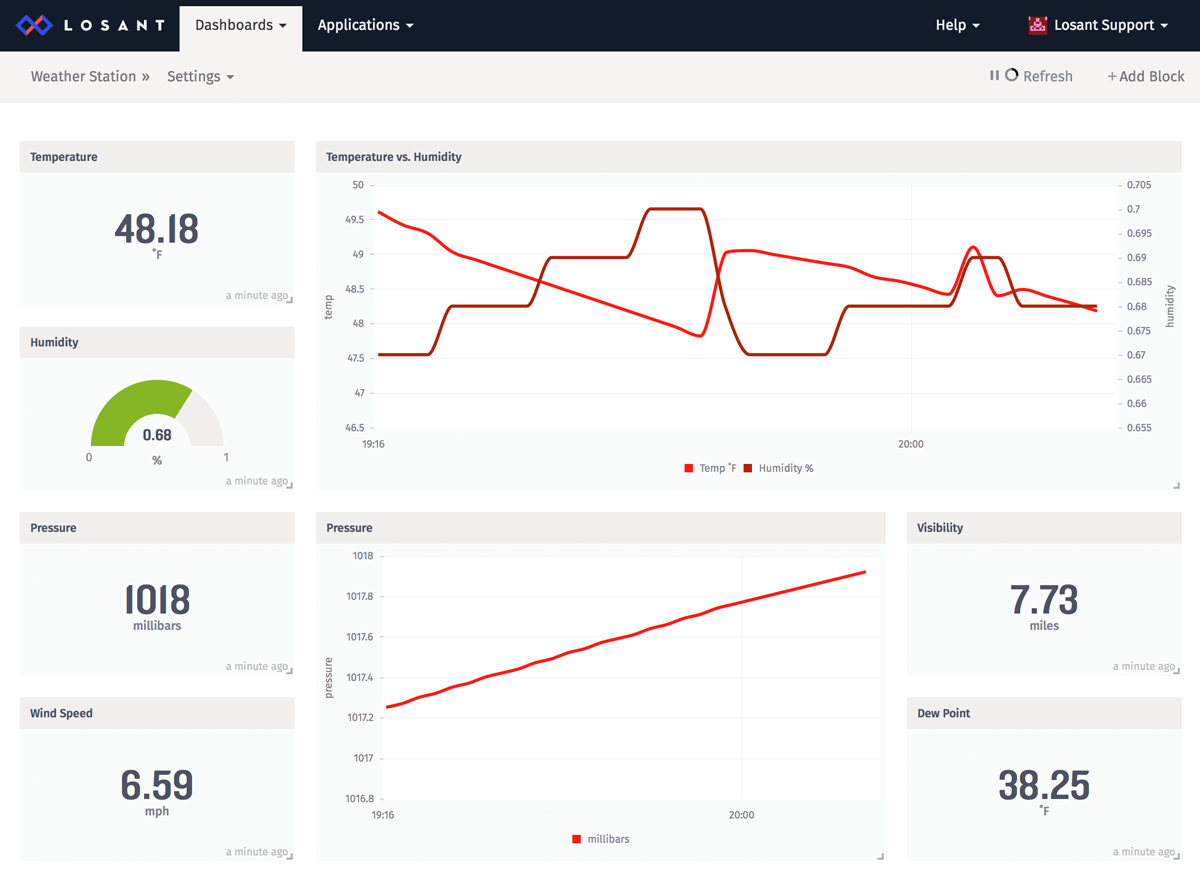
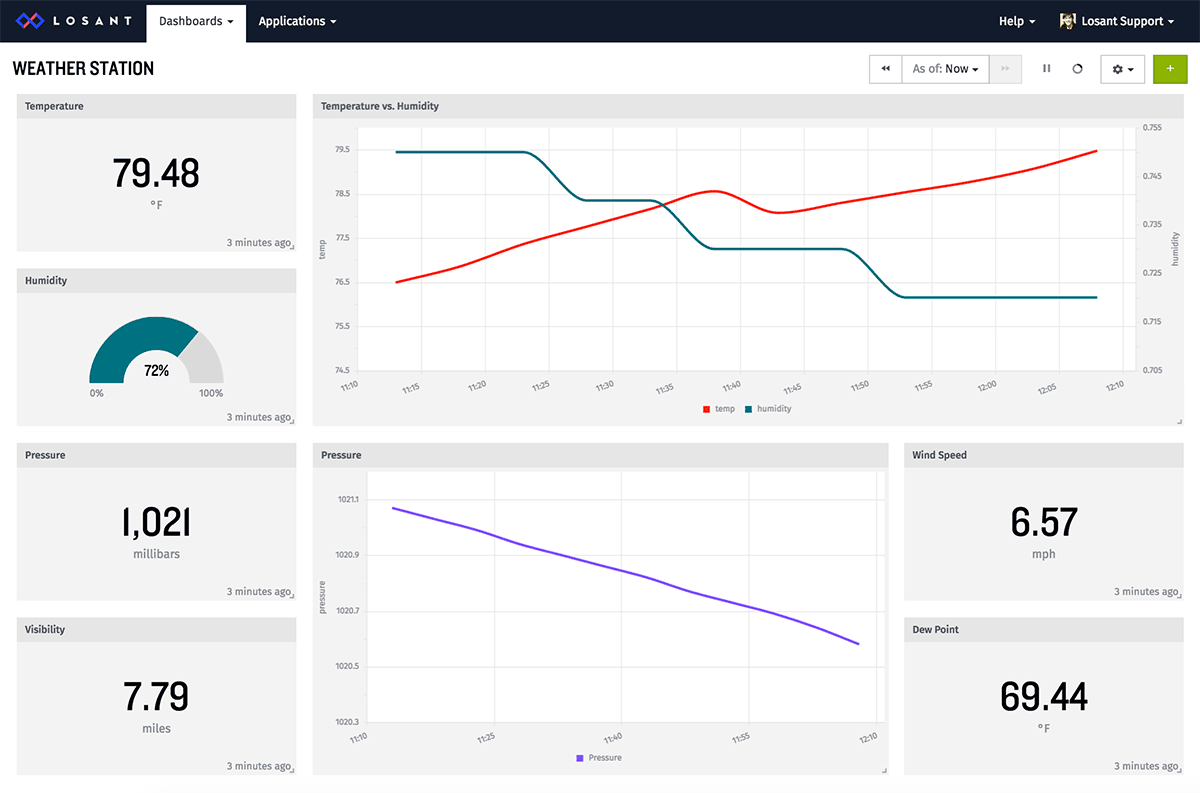
dashboard time jumper

diff --git a/docs/dashboards/overview.md b/docs/dashboards/overview.md
@@ -24,6 +24,23 @@ Dashboards by default will automatically refresh the data every 60 seconds. You 
 
 ![Refresh Button](/images/dashboards/overview-refresh-button.png "Refresh Button")
 
+## Viewing Past Dashboard States
+
+By default, dashboards show values as of the last time data was fetched from Losant ("Now"). To view the state of your dashboard blocks at a given point in time, open the Time Jumper dropdown and select the "Jump to a specific date/time" option. After choosing a past time, the dashboard will refresh and display each dashboard block as it appeared at that moment.
+
+![Dashboard Time Jumper](/images/dashboards/dashboard-time-jumper.png "Dashboard Time Jumper")
+
+It is also possible to jump backward and forward in time simply by clicking the arrows on either side of the time jumper dropdown. This allows for quick perusing of dashboard states as they progressed over a period of time. By default, the arrows jump 60 minutes forward and backward, but this value can be changed in the Time Jumper dropdown. The arrow jump amount is stored locally on your browser and will be maintained across different dashboards.
+
+![Dashboard Time Jumper Arrows](/images/dashboards/dashboard-time-jumper-arrows.png "Dashboard Time Jumper Arrows")
+
+A few things to note when viewing past dashboard states:
+
+*  **The following dashboard blocks do not update** when viewing a past dashboard state (meaning, they continue to reflect the "as of now" state of the block): Input Controls, Event List, Device List, Workflow List, Application List, Dashboard List, External Website
+* When viewing a past state, the dashboard will cease to refresh data on a regular basis.
+* **Each individual block will honor its specific duration settings** regardless of the selected date. For example, when viewing 10:00am on June 1, 2016, a Time Series Graph configured to show the last hour of data will display data from 9:00am to 10:00am of that same date. Meanwhile, a Gauge Block set to display a mean aggregation of data collected over the past four hours will show the aggregated value of its attribute as collected from 6:00am to 10:00am that morning.
+* If you attempt to go forward in time past the current date/time, the dashboard will automatically revert to displaying "Now" data and the ability to go forward from that point will be disabled.
+
 ## Dashboard Access Control
 
 Dashboards have a three levels of access - private, password protected, and public.  Private
